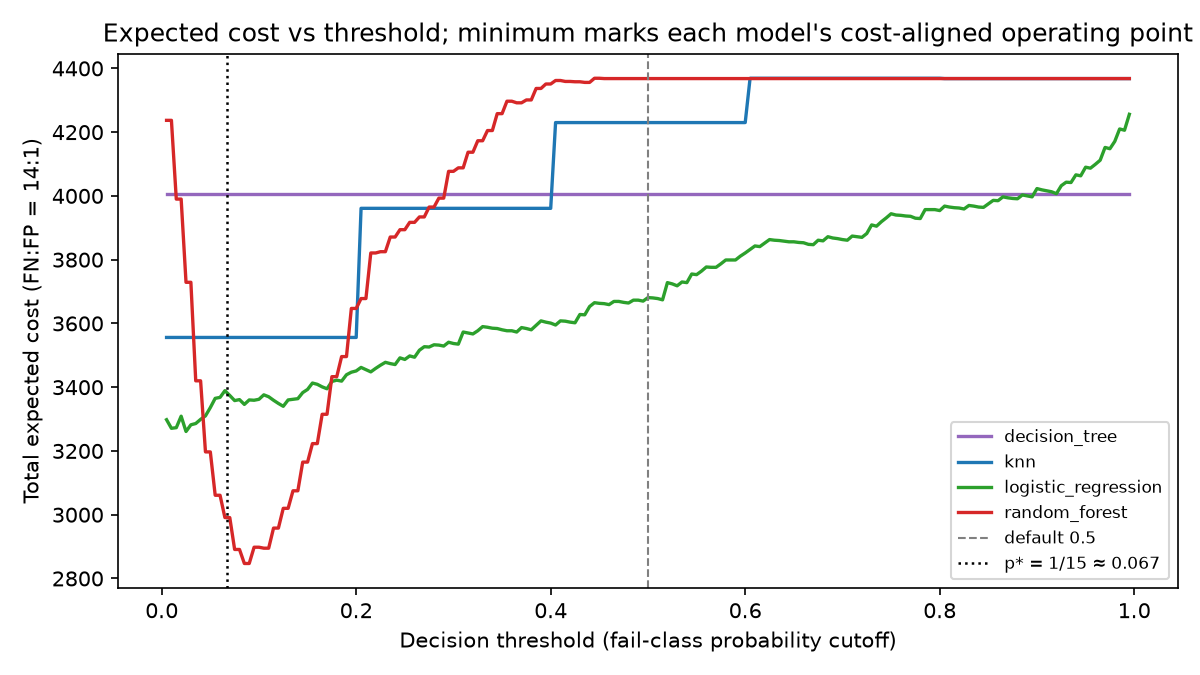
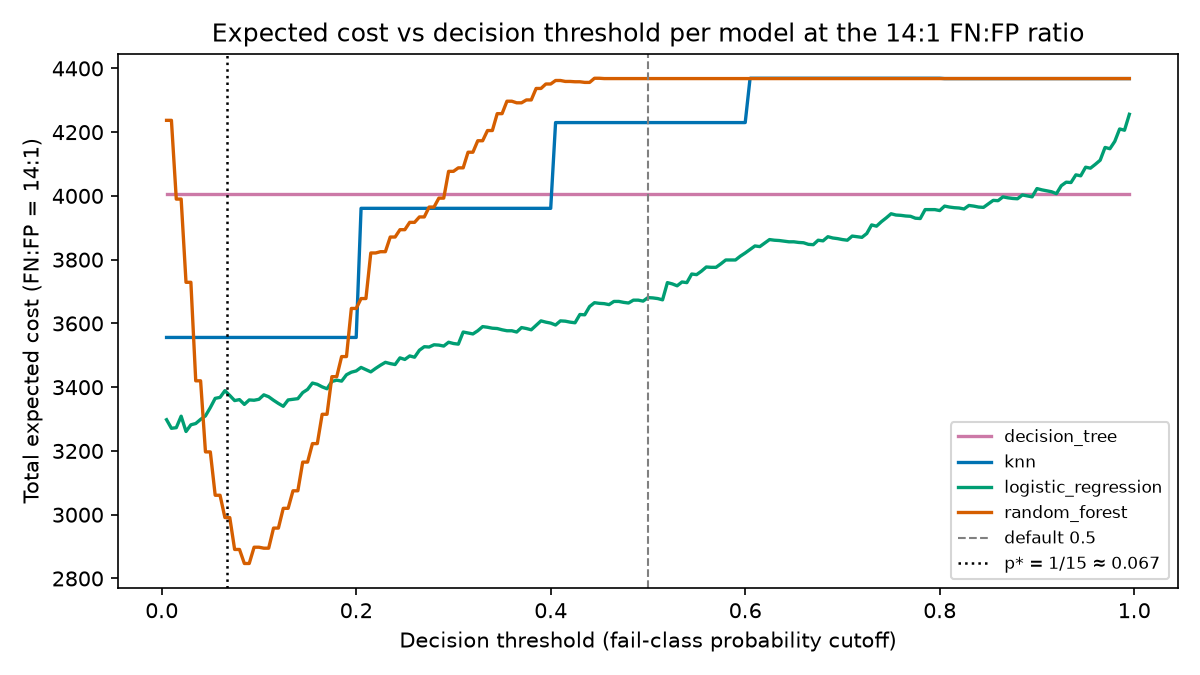
docs(figures): data-only plots, Okabe-Ito palette, caption edits (#10)
Align figure conventions with the sibling paper (prompt-repetition-
experiments/paper): interpretation moves to captions, figures carry
only data, and colors use the Okabe-Ito colorblind-safe palette.

- fig1: drop the in-plot annotation box; the zero-recall takeaway
  lives in the caption instead.
- fig2: retitle to state the verticals plainly (default 0.5 and
  cost-aligned p* = 1/15); the old title implied each curve's minimum
  was marked.
- fig3: move bar value labels inside the bars (white, right-aligned)
  with axis headroom and remove right/top spines; nothing clips.
- Captions in README and results/findings.md tightened to be concise
  and self-contained: fig1 caption now carries the 30-fold zero-recall
  statement and the challenger's 10-of-30 nonzero range; fig2 caption
  identifies both verticals; palette note added to the README.

diff --git a/figures/fig1-recall-inversion.py b/figures/fig1-recall-inversion.py
@@ -36,21 +36,17 @@ def main():
     fig, ax = plt.subplots(figsize=(8, 4.5), dpi=150)
     xs = range(n)
     ax.scatter(xs, recall_chal, marker="o", s=28, label=f"{CHALLENGER} recall (challenger)",
-               color="#1f77b4", alpha=0.85)
-    ax.scatter(xs, recall_best, marker="s", s=28, label=f"{BEST} recall (accuracy-best, 0 in all 30 folds)",
-               color="#d62728", alpha=0.85)
-    ax.plot(xs, acc_chal, linestyle=":", linewidth=1, color="#1f77b4", alpha=0.5,
+               color="#0072B2", alpha=0.85)
+    ax.scatter(xs, recall_best, marker="s", s=28, label=f"{BEST} recall (accuracy-best)",
+               color="#D55E00", alpha=0.85)
+    ax.plot(xs, acc_chal, linestyle=":", linewidth=1, color="#0072B2", alpha=0.5,
             label=f"{CHALLENGER} accuracy")
-    ax.plot(xs, acc_best, linestyle="--", linewidth=1, color="#d62728", alpha=0.5,
+    ax.plot(xs, acc_best, linestyle="--", linewidth=1, color="#D55E00", alpha=0.5,
             label=f"{BEST} accuracy")
     ax.set_xlabel("Fold (3 repeats x 10 splits)")
     ax.set_ylabel("Metric value")
     ax.set_title("Fail-class recall: accuracy-best (random forest) vs challenger (k-NN)")
     ax.set_ylim(-0.03, 1.03)
-    ax.annotate("random forest detects zero defects in every fold;\n"
-                "k-NN detects defects in 10 of 30 folds",
-                xy=(0.02, 0.32), xycoords="axes fraction", fontsize=8.5,
-                bbox=dict(boxstyle="round,pad=0.35", fc="#fff3f3", ec="#d62728", alpha=0.9))
     ax.legend(fontsize=8, loc="center right")
     fig.tight_layout()
     out = pathlib.Path(__file__).parent / "fig1-recall-inversion.png"

diff --git a/figures/fig3-ranking-flip.py b/figures/fig3-ranking-flip.py
@@ -17,10 +17,10 @@ RAW = ROOT / "results" / "raw"
 FN_COST, FP_COST = 14.0, 1.0
 DEFAULT_THRESHOLD = 0.5
 COLORS = {
-    "random_forest": "#d62728",
-    "knn": "#1f77b4",
-    "logistic_regression": "#2ca02c",
-    "decision_tree": "#9467bd",
+    "random_forest": "#D55E00",
+    "knn": "#0072B2",
+    "logistic_regression": "#009E73",
+    "decision_tree": "#CC79A7",
 }
 
 
@@ -54,11 +54,17 @@ def main():
     ):
         names = list(reversed(ranking))  # rank 1 at top
         vals = [values[n] for n in names]
-        ax.barh(names, vals, color=[COLORS[n] for n in names])
-        for i, v in enumerate(vals):
-            ax.text(v, i, " " + fmt.format(v), va="center", fontsize=8)
+        bars = ax.barh(names, vals, color=[COLORS[n] for n in names])
+        vmax = max(vals)
+        ax.set_xlim(0, vmax * 1.12)  # headroom so labels never clip
+        for bar, v in zip(bars, vals):
+            ax.text(v - vmax * 0.015, bar.get_y() + bar.get_height() / 2,
+                    fmt.format(v), va="center", ha="right", fontsize=8.5,
+                    color="white", fontweight="bold")
         ax.set_title(title, fontsize=9)
         ax.set_xticks([])
+        ax.spines["right"].set_visible(False)
+        ax.spines["top"].set_visible(False)
     fig.suptitle("The accuracy-best model (random forest) is cost-worst at the default threshold",
                  fontsize=10)
     fig.tight_layout()

diff --git a/figures/fig2-cost-vs-threshold.py b/figures/fig2-cost-vs-threshold.py
@@ -16,10 +16,10 @@ RAW = pathlib.Path(__file__).parent.parent / "results" / "raw"
 P_STAR = 1.0 / (1.0 + 14.0)
 FN_COST, FP_COST = 14.0, 1.0
 COLORS = {
-    "random_forest": "#d62728",
-    "knn": "#1f77b4",
-    "logistic_regression": "#2ca02c",
-    "decision_tree": "#9467bd",
+    "random_forest": "#D55E00",
+    "knn": "#0072B2",
+    "logistic_regression": "#009E73",
+    "decision_tree": "#CC79A7",
 }
 
 
@@ -51,7 +51,7 @@ def main():
                label=r"p* = 1/15 ≈ 0.067")
     ax.set_xlabel("Decision threshold (fail-class probability cutoff)")
     ax.set_ylabel("Total expected cost (FN:FP = 14:1)")
-    ax.set_title("Expected cost vs threshold; minimum marks each model's cost-aligned operating point")
+    ax.set_title("Expected cost vs decision threshold per model at the 14:1 FN:FP ratio")
     ax.legend(fontsize=8)
     fig.tight_layout()
     out = pathlib.Path(__file__).parent / "fig2-cost-vs-threshold.png"

diff --git a/figures/fig4-probability-histograms.py b/figures/fig4-probability-histograms.py
@@ -15,10 +15,10 @@ import matplotlib.pyplot as plt
 RAW = pathlib.Path(__file__).parent.parent / "results" / "raw"
 MODELS = ["random_forest", "knn", "logistic_regression", "decision_tree"]
 COLORS = {
-    "random_forest": "#d62728",
-    "knn": "#1f77b4",
-    "logistic_regression": "#2ca02c",
-    "decision_tree": "#9467bd",
+    "random_forest": "#D55E00",
+    "knn": "#0072B2",
+    "logistic_regression": "#009E73",
+    "decision_tree": "#CC79A7",
 }
 
 

diff --git a/README.md b/README.md
@@ -72,23 +72,23 @@ Sensitivity at the 10:1 ratio preserves the p* ordering (logistic regression 262
 
 ## Figures
 
-All figures derive only from the committed raw records via the committed scripts in `figures/`; regenerate with `uv run --with matplotlib python figures/<script>.py`.
+All figures derive only from the committed raw records via the committed scripts in `figures/`; regenerate with `uv run --with matplotlib python figures/<script>.py`. (Colors use the Okabe-Ito colorblind-safe palette.)
 
 ![Per-fold fail-class recall of the accuracy-best random forest against the k-NN challenger with per-fold accuracy overlaid](figures/fig1-recall-inversion.png)
 
-*Figure 1: Per-fold fail-class recall (markers) and accuracy (lines) over the 30 fold-evaluations. The accuracy-best random forest sits at zero recall in every fold while matching the challenger's accuracy within ~0.004.*
+*Figure 1: Per-fold fail-class recall (markers) and accuracy (lines) over the 30 fold-evaluations. The accuracy-best random forest is at zero recall in all 30 folds; the k-NN challenger has nonzero recall in 10 of 30 (0.09-0.20) while matching its accuracy within 0.004.*
 
 ![Expected cost versus decision threshold per model at the 14:1 ratio with verticals at the default 0.5 and p* = 1/15](figures/fig2-cost-vs-threshold.png)
 
-*Figure 2: Expected cost versus decision threshold per model at the 14:1 ratio. The random forest's dip bottoms out near p*; the decision tree is threshold-invariant.*
+*Figure 2: Expected cost versus decision threshold per model at the 14:1 FN:FP ratio; dashed vertical marks the default 0.5 threshold, dotted vertical the cost-aligned p\* = 1/15. The random forest's cost minimum lies at p\*; the decision tree is threshold-invariant.*
 
 ![Model ranking by mean accuracy versus ranking by expected cost at the 0.5 threshold](figures/fig3-ranking-flip.png)
 
-*Figure 3: Ranking by mean accuracy (left) versus expected cost at the default threshold, 14:1 (right). The random forest moves from first to last.*
+*Figure 3: Ranking by mean accuracy (left) versus expected cost at the default 0.5 threshold, 14:1 FN:FP (right). The random forest moves from first to last.*
 
 ![Predicted fail-class probability histograms per model with verticals at 0.5 and 1/15](figures/fig4-probability-histograms.png)
 
-*Figure 4: Predicted fail-class probability distributions (fail units rescaled for visibility). Random forest and logistic regression produce graded outputs; the decision tree is degenerate at 0/1.*
+*Figure 4: Predicted fail-class probability distributions per model (fail units rescaled for visibility); dashed vertical at 0.5, dotted at 1/15. Random forest and logistic regression produce graded outputs; the decision tree is degenerate at 0 and 1.*
 
 ## Repository Layout
 

diff --git a/results/findings.md b/results/findings.md
@@ -103,19 +103,19 @@ Figures:
 
 ![Per-fold fail-class recall of the accuracy-best random forest (all zeros) against the k-NN challenger, with per-fold accuracy overlaid](../figures/fig1-recall-inversion.png)
 
-*Figure 1: Per-fold fail-class recall (markers) and accuracy (lines) over the 30 fold-evaluations. The accuracy-best random forest sits at zero recall in every fold while matching the challenger's accuracy within ~0.004.*
+*Figure 1: Per-fold fail-class recall (markers) and accuracy (lines) over the 30 fold-evaluations. The accuracy-best random forest is at zero recall in all 30 folds; the k-NN challenger has nonzero recall in 10 of 30 (0.09-0.20) while matching its accuracy within 0.004.*
 
 ![Expected cost versus decision threshold per model at the 14:1 ratio, with verticals at the default 0.5 and p* = 1/15](../figures/fig2-cost-vs-threshold.png)
 
-*Figure 2: Expected cost versus decision threshold per model at the 14:1 ratio. The random forest's steep dip bottoms out near p* = 1/15; the decision tree is threshold-invariant.*
+*Figure 2: Expected cost versus decision threshold per model at the 14:1 FN:FP ratio; dashed vertical marks the default 0.5 threshold, dotted vertical the cost-aligned p\* = 1/15. The random forest's cost minimum lies at p\*; the decision tree is threshold-invariant.*
 
 ![Model ranking by mean accuracy versus ranking by expected cost at the 0.5 threshold](../figures/fig3-ranking-flip.png)
 
-*Figure 3: Ranking by mean accuracy (left) versus expected cost at the default threshold, 14:1 (right). The random forest moves from first to last.*
+*Figure 3: Ranking by mean accuracy (left) versus expected cost at the default 0.5 threshold, 14:1 FN:FP (right). The random forest moves from first to last.*
 
 ![Predicted fail-class probability histograms per model, pass and (rescaled) fail units, with verticals at 0.5 and 1/15](../figures/fig4-probability-histograms.png)
 
-*Figure 4: Predicted fail-class probability distributions (fail units rescaled to the pass count for visibility). Random forest and logistic regression produce graded outputs; the decision tree is degenerate at 0/1; k-NN is coarse and discrete.*
+*Figure 4: Predicted fail-class probability distributions per model (fail units rescaled to the pass count for visibility); dashed vertical at 0.5, dotted at 1/15. Random forest and logistic regression produce graded outputs; the decision tree is degenerate at 0 and 1; k-NN is coarse and discrete.*
 
 Regenerate all figures from committed records with
 `uv run --with matplotlib python figures/fig<N>-*.py`.
